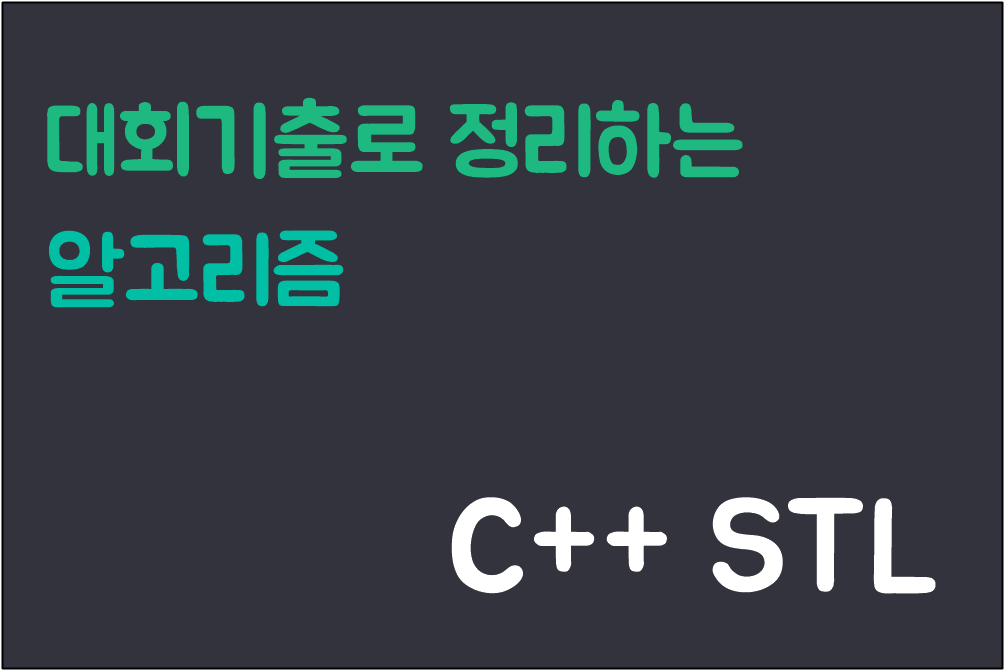
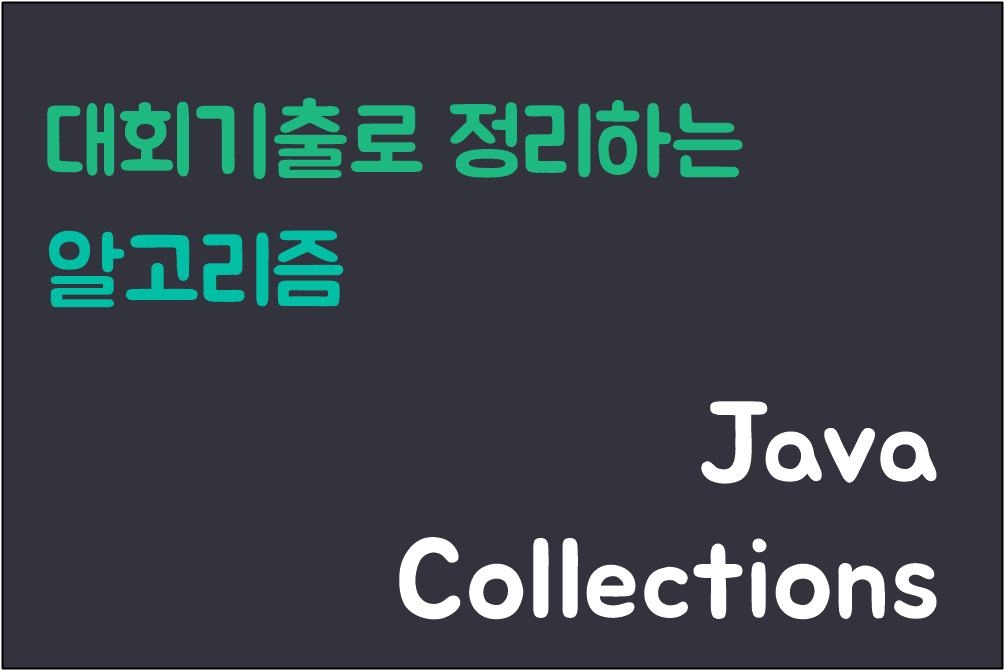
C++에서 Java로 변경

Changed region(s): [[0.3705, 0.597, 0.9572, 0.9254]]

diff --git a/assets/css/screen.css b/assets/css/screen.css
@@ -42,7 +42,7 @@ pre {
     border: #E3EDF3 1px solid;
     width: 100%;
     padding: 7px;
-    font-family: 'NanumSquare';
+    font-family: monospace;
     font-size: .9rem;
     white-space: pre;
     overflow: auto;

diff --git a/_posts/2020-02-01-알고리즘-입출력-이-정도만-준비하자.md b/_posts/2020-02-01-알고리즘-입출력-이-정도만-준비하자.md
@@ -2,10 +2,212 @@
 layout: post
 title: "알고리즘 입출력, 이 정도만 준비하자"
 author: cupjoo
-categories: [알고리즘, C++]
+categories: [알고리즘, Java]
 image: assets/images/2020-02-01/1.png
 ---
 
 [대회기출로 정리하는 알고리즘 시리즈 로드맵](https://cupjoo.github.io/대회기출로-정리하는-알고리즘-시리즈-로드맵)
 
 ---
+
+알고리즘 문제에서 요구하는 여러 입출력 형식을 다루기 위해 Java의 입출력 라이브러리 사용법을 정리하고자 한다.
+
+## 입력 (BufferedReader)
+
+입력에서 자주 쓰이는 함수는 다음과 같다.
+
+- Scanner 의 nextLine() / nextInt()
+- BuffredReader 의 readLine()
+
+Scanner는 뭐 다들 잘 알테고, BuffredReader의 사용법은 다음과 같다. readLine으로 한 번에 한 줄 전체를 입력받은 뒤 문자열을 파싱해 token으로 나눈다. 파싱에는 StringTokenizer가 자주 사용된다. 사용법은 Scanner가 더 쉽지만 속도 면에서는 BuffredReader가 훨씬 더 빠르다.
+
+```java
+// int[N][M]
+int N, M;
+int[][] board = new int[MAXN][MAXN];
+
+st = new StringTokenizer(br.readLine(), " ");
+N = Integer.parseInt(st.nextToken());
+M = Integer.parseInt(st.nextToken());
+for (int r = 0; r < N; r++) {
+    st = new StringTokenizer(br.readLine(), " ");
+    for (int c = 0; c < M; c++) {
+        board[r][c] = Integer.parseInt(st.nextToken());
+    }
+}
+```
+
+## 출력 (BufferedWriter)
+
+출력에서 자주 쓰이는 함수는 다음과 같다.
+
+- System.out.println()
+- BuffredWriter 의 write()
+
+마찬가지로 System.out.println은 설명이 필요 없을 것 같고, BuffredWriter의 사용법은 다음과 같다. 출력할 내용을 write를 사용해 버퍼에 저장하고, flush를 사용해 한 번에 출력한다. 만약 더 이상 출력할 내용이 없다면 flush 대신 close를 사용한다.
+
+```java
+BufferedWriter bw = new BufferedWriter(new OutputStreamWriter(System.out));
+for(int i = 0; i < 10; i++)
+  br.write(i+" ");
+br.newLine();
+// br.flush();
+br.close(); // 출력
+```
+
+그럼 실제로 두 함수는 속도가 얼마나 차이가 날까? 다음 코드로 확인해보자.
+
+![2.png]({{ site.baseurl }}/assets/images/2020-02-01/2.png)
+
+**결과**
+
+![3.png]({{ site.baseurl }}/assets/images/2020-02-01/3.png)
+
+차이가 10배 이상 나는 것 같다. 여기서 한 가지 더 궁금한 게 newLine 함수와 "\n" 도 속도 차이가 날까? 확인해보자.
+
+![4.png]({{ site.baseurl }}/assets/images/2020-02-01/4.png)
+
+**결과**
+
+![5.png]({{ site.baseurl }}/assets/images/2020-02-01/5.png)
+
+생각보다 큰 차이는 없는 것 같다.
+
+**결론**
+
+`입력`에서는 웬만해서는 `BufferedReader`를 쓰자. `출력`에서는 개행문자의 경우 선호에 따라 알아서 쓰면 될 것 같고, 출력해야 할 결과의 개수가 지나치게 `많은 경우`에는 `BufferedWriter`를 쓰고, 1~2줄로 끝나는 경우엔 그냥 `System.out.println`을 사용하자. 버퍼까지 쓰기엔 너무 번거롭다.
+
+## 실전 예제
+
+이번엔 5가지 문제들과 함께 다양한 입력 형태를 다뤄보려 한다. 실제 문제 풀이를 위한 최적화된 입력 방식은 다를 수 있으니 형식만 확인하자.
+
+**선언부**
+
+```java
+//BufferedReader br = new BufferedReader(new FileReader("input.txt"));
+BufferedReader br = new BufferedReader(new InputStreamReader(System.in));
+BufferedWriter bw = new BufferedWriter(new OutputStreamWriter(System.out));
+StringTokenizer st;
+
+final int MAXN = 100 + 2;
+```
+
+**2차원 int 배열** [(14502 연구소)](https://www.acmicpc.net/problem/14502)
+
+```java
+/*
+7 7
+2 0 0 0 1 1 0
+0 0 1 0 1 2 0
+0 1 1 0 1 0 0
+0 1 0 0 0 0 0
+0 0 0 0 0 1 1
+0 1 0 0 0 0 0
+0 1 0 0 0 0 0
+*/
+
+int N, M;
+int[][] board = new int[MAXN][MAXN];
+
+st = new StringTokenizer(br.readLine(), " ");
+N = Integer.parseInt(st.nextToken());
+M = Integer.parseInt(st.nextToken());
+for (int r = 0; r < N; r++) {
+    st = new StringTokenizer(br.readLine(), " ");
+    for (int c = 0; c < M; c++) {
+        board[r][c] = Integer.parseInt(st.nextToken());
+    }
+}
+```
+
+**2차원 int 배열 (공백 X)** [(2178 미로 탐색)](https://www.acmicpc.net/problem/2178)
+
+```java
+/*
+4 6
+110110
+110110
+111111
+111101
+*/
+
+int N, M;
+int[][] board = new int[MAXN][MAXN];
+
+st = new StringTokenizer(br.readLine(), " ");
+N = Integer.parseInt(st.nextToken());
+M = Integer.parseInt(st.nextToken());
+for (int r = 0; r < N; r++) {
+    String line = br.readLine();
+    for (int c = 0; c < M; c++) {
+        board[r][c] = line.charAt(c) - '0';
+    }
+}
+```
+
+**2차원 char 배열** [(1018 체스판 다시 칠하기)](https://www.acmicpc.net/problem/1018)
+
+```java
+/*
+8 8
+WBWBWBWB
+BWBWBWBW
+WBWBWBWB
+BWBBBWBW
+WBWBWBWB
+BWBWBWBW
+WBWBWBWB
+BWBWBWBW
+*/
+
+int N, M;
+char[][] board = new char[MAXN][MAXN];
+
+st = new StringTokenizer(br.readLine(), " ");
+N = Integer.parseInt(st.nextToken());
+M = Integer.parseInt(st.nextToken());
+for (int r = 0; r < N; r++) {
+    String line = br.readLine();
+    for (int c = 0; c < M; c++) {
+        board[r][c] = line.charAt(c);
+    }
+}
+```
+
+**String 배열** [(1181 단어 정렬)](https://www.acmicpc.net/problem/1181)
+
+```java
+/*
+13
+but
+i
+wont
+hesitate
+no
+more
+no
+more
+it
+cannot
+wait
+im
+yours
+*/
+
+int N;
+String[] line = new String[MAXN];
+
+N = Integer.parseInt(br.readLine());
+for (int r = 0; r < N; r++) {
+    line[r] = br.readLine();
+}
+```
+
+**문자열 Tokens** [(1152 단어의 개수)](https://www.acmicpc.net/problem/1152)
+
+```java
+// The Curious Case of Benjamin Button
+
+String[] token = new String[MAXN];
+token = br.readLine().split(" ");
+```

diff --git a/_posts/2020-02-02-알고리즘-풀이-언어-선택에-대한-생각.md b/_posts/2020-02-02-알고리즘-풀이-언어-선택에-대한-생각.md
@@ -26,14 +26,12 @@ image: assets/images/2020-02-02/1.png
 
 기업 별로 빈출되는 문제 유형도 달라서 짧은 기간 동안 풀어야 할 문제들도 수두룩한데, 여기서 만약 코드에서 오류가 발생하면 사람들은 보통 두 유형으로 나뉘게 된다. C/C++ 사용자라면 분명 내 로직 문제겠지 하면서 바로 로직을 수정하는 방향으로 돌입하지만, Java, Python 사용자의 경우 이게 도대체 언어 문제인지, 아니면 내 로직 문제인지, 난 분명 완벽하게 짠 거 같은데.. 하면서 의미없는 구글링도 해보며 자신과의 싸움을 하게 된다. 그러다 자소서나 다른 활동도 겹치면서 슬럼프에 빠지는 경우를 많이 봤다.
 
-때문에 기업 테스트만을 목적으로 하는 경우, 자신의 코드에 확신이 들지 않거나 시간이 상대적으로 부족하다면, 개인적으로 C++을 메인으로 쓰는 것을 추천한다.
+때문에 기업 테스트만을 목적으로 하는 경우, 자신의 코드에 확신이 들지 않거나 시간이 상대적으로 부족하다면, 개인적으로 레퍼런스 코드도 월등히 많은 C++을 메인으로 쓰는 것을 추천한다.
 
 ## 중요한 건 Logic
 
-하지만 그렇다고 너무 언어에 얽매이지는 말자. 나는 대회를 목표로 하다보니 비교적 여유를 두고 언어를 선택했는데, 당시 Big Integer를 지원하는 자바와 레퍼런스 코드가 많은 C++ 사이에서 고민하다 위에서 말한 것과 비슷한 이유로 C++을 선택했다. 그런데 가끔 다른 사람 풀이를 보다보면 Python은 진짜.. 어나더 레벨인 거 같다. 특정 문제의 경우 의도한 알고리즘 기법을 쓰지 않고 평소대로 풀면 타임 아웃이 나게 되어 있는데, 이때 C++은 해당 기법을 그대로 따라가야 하지만 파이썬은 그렇게 안 하고도 그냥 다른 방법으로 씹어먹고 풀어버리는 경우가 있다. 특히 문자열 처리 때 그런게 많은 거 같다.
-
-그래서 나는 문제 풀이 시 C++을 메인으로 풀지만, 가끔 Python이면 간단하게 풀 수 있는 문제가 나오면 Python으로 풀이를 진행한다. 자신만의 편한 방법이 있다면 언어에 너무 얽매이지는 말자. 결국 중요한 건 `멋있는 최적의 풀이를 찾아내는 것`이 아니라 `그래서 로직을 짤 수 있느냐, 없느냐`이기 때문이다.
+하지만 그렇다고 너무 언어에 얽매이지는 말자. 나는 대회를 목표로 하다보니 비교적 여유를 두고 언어를 선택했는데, 처음엔 2년 정도 C++로 문제를 풀다가 Spring에 입문하게 되면서 앞으로도 Java를 많이 사용하게 될 것 같아 얼마 전에 갈아탔다. 그러다보니 평소에는 Java로 풀다가 가끔 C++로 풀었을 때 더 빠른 문제가 나오면 C++로 풀기도 한다. 자신만의 편한 방법이 있으면 그때마다 선택해 사용하면 된다. 시험장에서 결국 중요한 건 `최소 수행시간의 풀이를 찾아내는 것`이 아니라 `그래서 로직을 짤 수 있느냐, 없느냐`이기 때문이다.
 
 ## 여담
 
-다만, C/C++의 경우 문법을 혼용해서 쓰면 조금 피곤해진다. 이전 블로그에서 [C/C++ 입출력 속도 비교](https://cupjoo.tistory.com/97) 라는 포스팅을 한 적이 있는데 최근 문자열 문제 지옥 난이도 모음집을 풀면서 뼈저리게 후회하고 있다. C로 입력받아 최대한 C에서 해결하려 했지만, 너무 심하다 싶어 C++의 도움을 빌리다 보니 결국 코드가 자꾸 꼬이게 되서 이제는 'C & C++ 혼용'에서 아예 쌩 C++로 갈아타려 한다. 해당 내용은 [알고리즘 입출력, 이 정도만 준비하자](https://cupjoo.github.io/알고리즘-입출력-이-정도만-준비하자)에서 조만간 다루려 한다.
+그런데 가끔 다른 사람 풀이를 보다보면 Python은 진짜.. 어나더 레벨인 거 같다. 가끔 출제자가 의도한 알고리즘 기법을 쓰지 않으면 타임 아웃이 나게되는 문제가 나오면 Java나 C++은 해당 기법을 그대로 따라가야 하지만, Python은 그렇게 안 하고도 그냥 다른 방법으로 씹어먹고 풀어버리는 경우가 있다. 특히 lambda에서 그런게 많은 거 같다.

diff --git a/_posts/2020-02-03-Java-Collections-in-알고리즘.md b/_posts/2020-02-03-Java-Collections-in-알고리즘.md
@@ -1,8 +1,8 @@
 ---
 layout: post
-title: "C++ STL 종합 정리"
+title: "Java Collections in 알고리즘"
 author: cupjoo
-categories: [알고리즘, C++]
+categories: [알고리즘, Java]
 image: assets/images/2020-02-03/1.png
 ---
 
@@ -10,7 +10,7 @@ image: assets/images/2020-02-03/1.png
 
 ---
 
-이번 포스팅은 설명보다는 사용법 위주로 작성하여 Cheetsheet의 용도로 활용할 예정이다. 꼭 필요한 STL만 정리했다.
+이번 포스팅은 설명보다는 사용법 위주로 작성하여 Cheetsheet의 용도로 활용할 예정이다. 꼭 필요한 Collection만 정리했다.
 
 ## vector
 
@@ -38,4 +38,3 @@ image: assets/images/2020-02-03/1.png
 - reverse
 - next_permutation
 
-## bits/stdc++.h

diff --git a/_posts/2020-01-28-대회기출로-정리하는-알고리즘-시리즈-로드맵.md b/_posts/2020-01-28-대회기출로-정리하는-알고리즘-시리즈-로드맵.md
@@ -18,7 +18,7 @@ hidden: true
 
 - [알고리즘 풀이 언어 선택에 대한 생각](https://cupjoo.github.io/알고리즘-풀이-언어-선택에-대한-생각)
 - [알고리즘 입출력, 이 정도만 준비하자](https://cupjoo.github.io/알고리즘-입출력-이-정도만-준비하자)
-- [C++ STL 종합 정리](https://cupjoo.github.io/C++-STL-종합-정리)
+- [Java Collections in 알고리즘](https://cupjoo.github.io/Java-Collections-in-알고리즘)
 - [C 함수와 이중 포인터 (지역성)](https://cupjoo.github.io/C-함수와-이중-포인터에-대한-개념-지역성)
 
 ## 알고리즘 유형정리

diff --git a/_posts/2020-02-04-C-함수와-이중-포인터에-대한-개념-지역성.md b/_posts/2020-02-04-C-함수와-이중-포인터에-대한-개념-지역성.md
@@ -2,7 +2,7 @@
 layout: post
 title: "C 함수와 이중 포인터에 대한 개념 (지역성)"
 author: cupjoo
-categories: [C++]
+categories: [C]
 image: assets/images/2020-02-04/0.png
 ---
 
